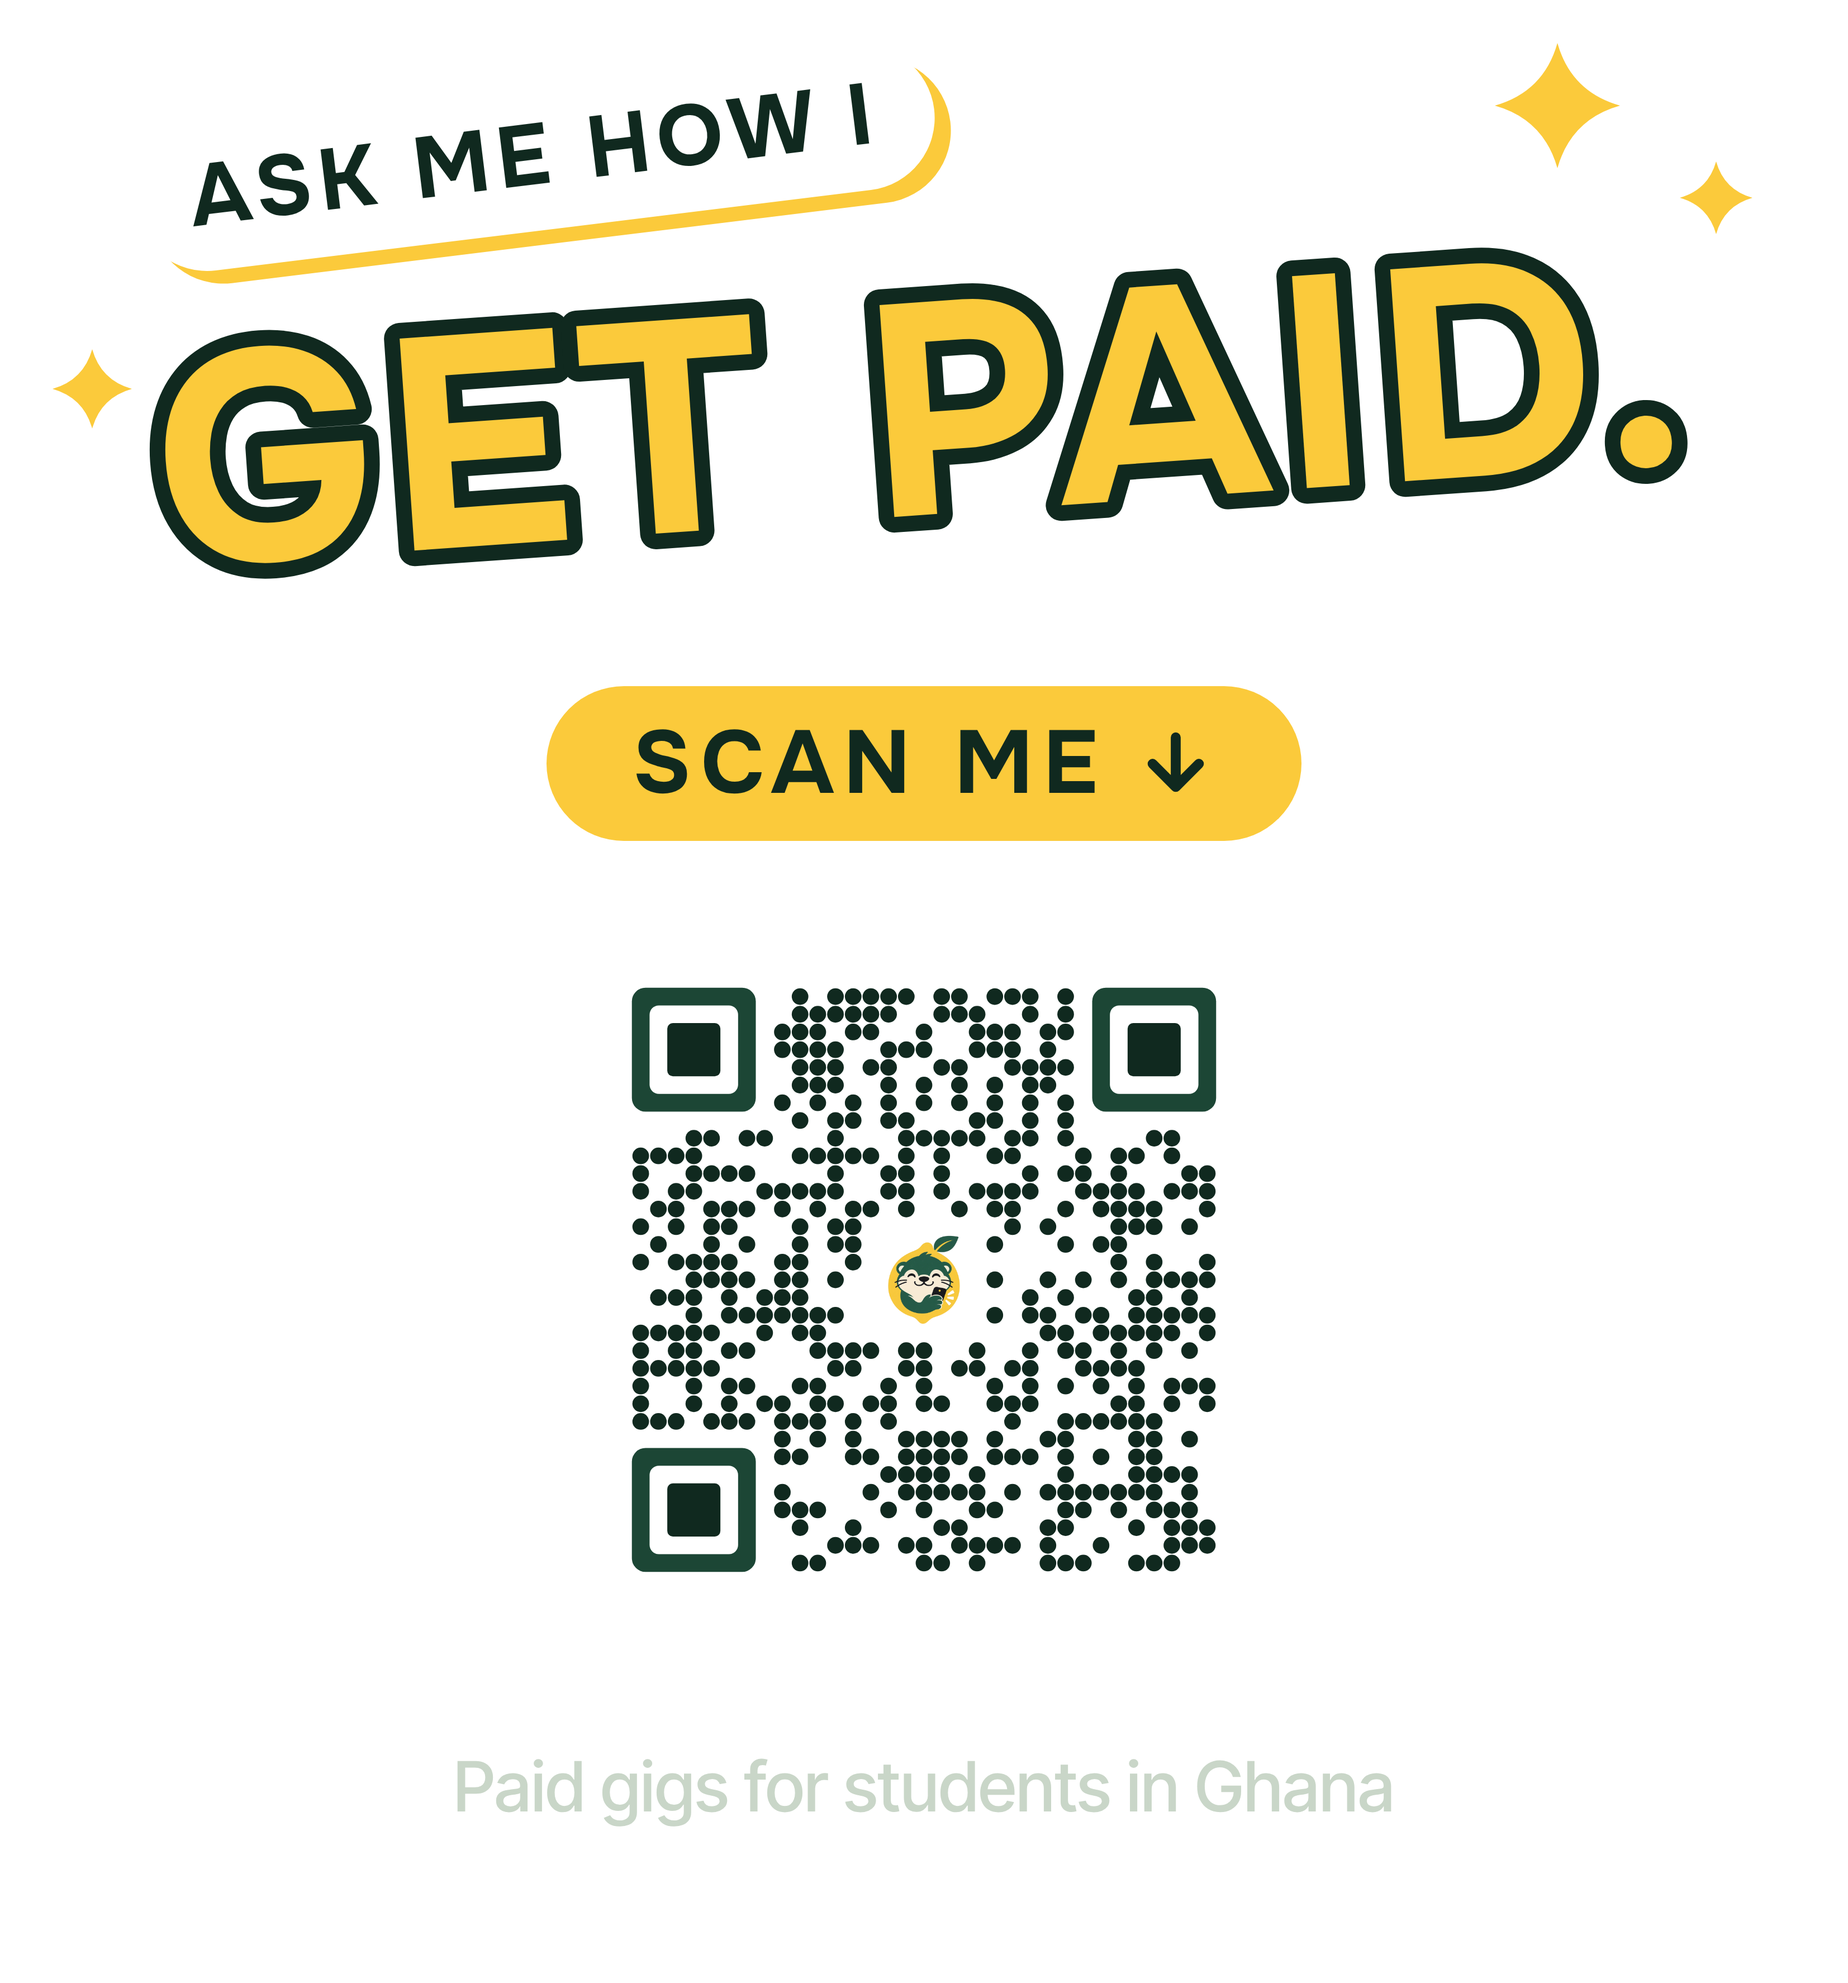
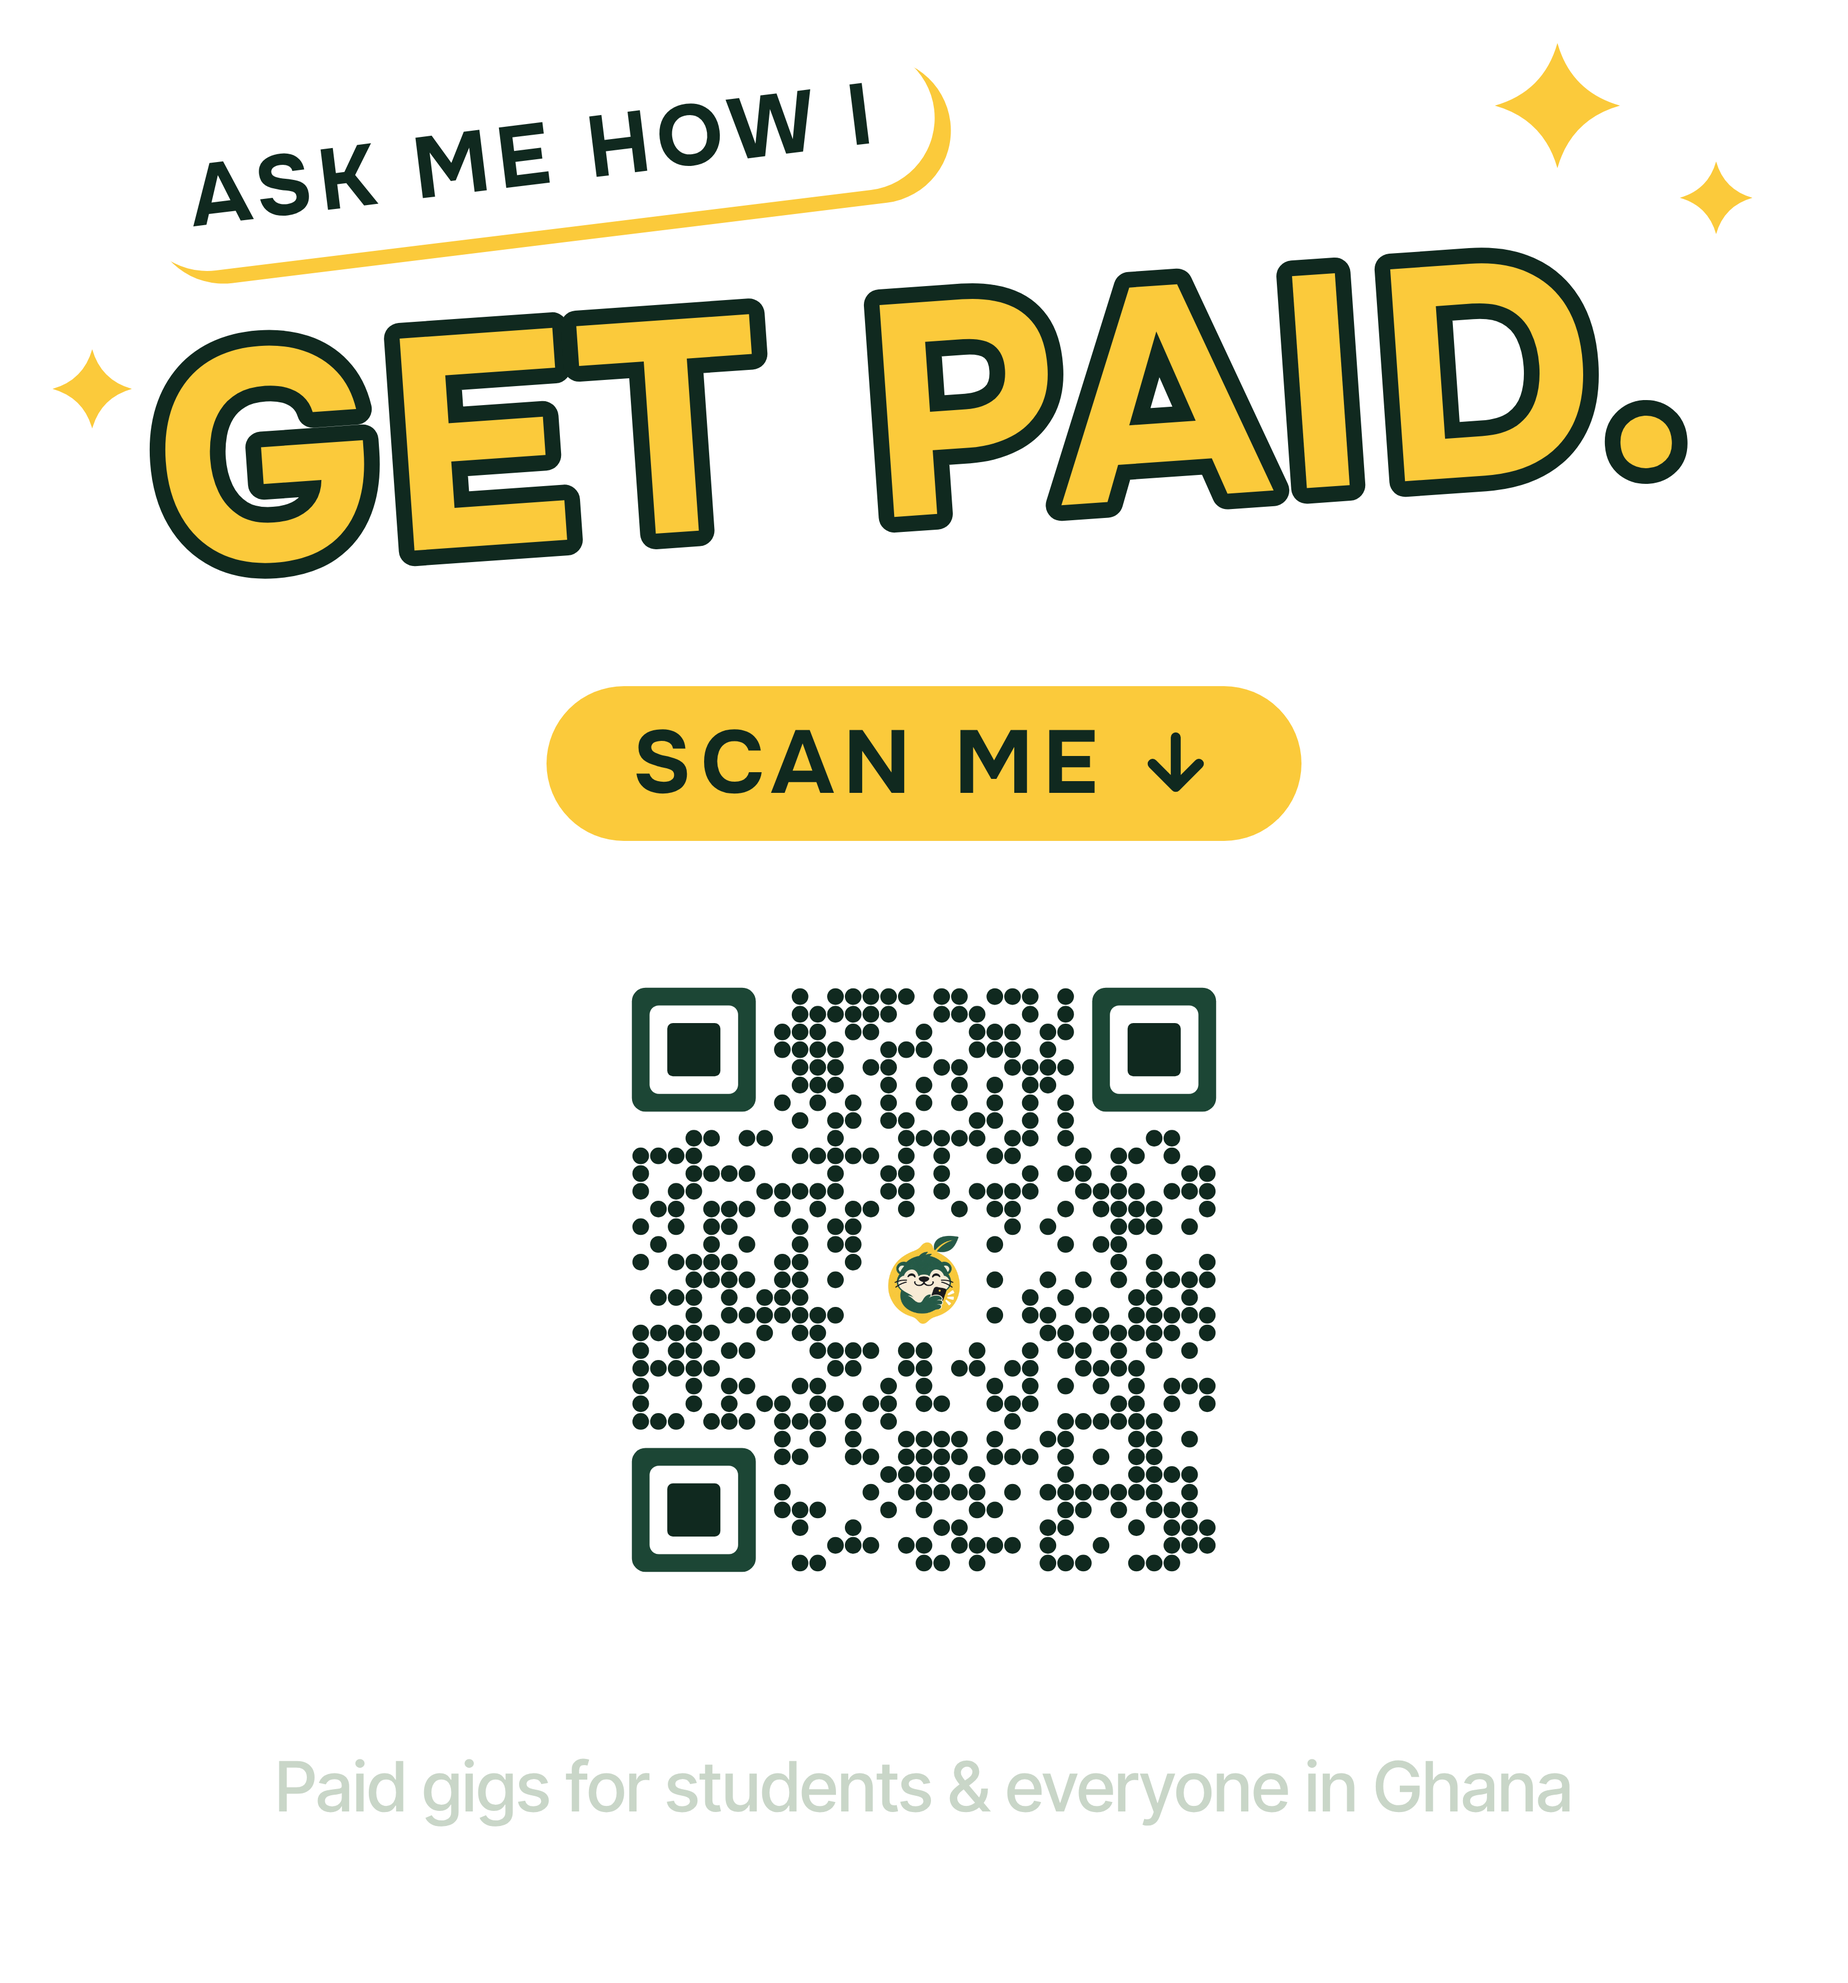
T-shirt back: 'Paid gigs for students & everyone in Ghana'
Claude-Session: https://claude.ai/code/session_01E2vaLUqDfRKS7n3VPqTwzA

Changed region(s): [[0.1557, 0.8679, 0.7164, 0.9298], [0.7475, 0.8679, 0.8409, 0.9298]]

diff --git a/docs/brand/tshirt/build/build.py b/docs/brand/tshirt/build/build.py
@@ -81,7 +81,7 @@ def back(name, top, head, sub, url, tab_bg, tab_ink, tile_line, hl):
 {hl}
 <div class="tab">SCAN ME <svg viewBox="0 0 24 24" fill="none" stroke="currentColor" stroke-width="3" stroke-linecap="round" stroke-linejoin="round"><path d="M12 4v15M5 12l7 7 7-7"/></svg></div>
 <div class="tile"><img src="{QR}" alt=""></div>
-<div class="sub">Paid gigs for students in Ghana</div>
+<div class="sub">Paid gigs for students &amp; everyone in Ghana</div>
 <div class="url">gigotter.com</div>
 </div></body></html>"""
     (WORK / f'back-{name}.html').write_text(html)
